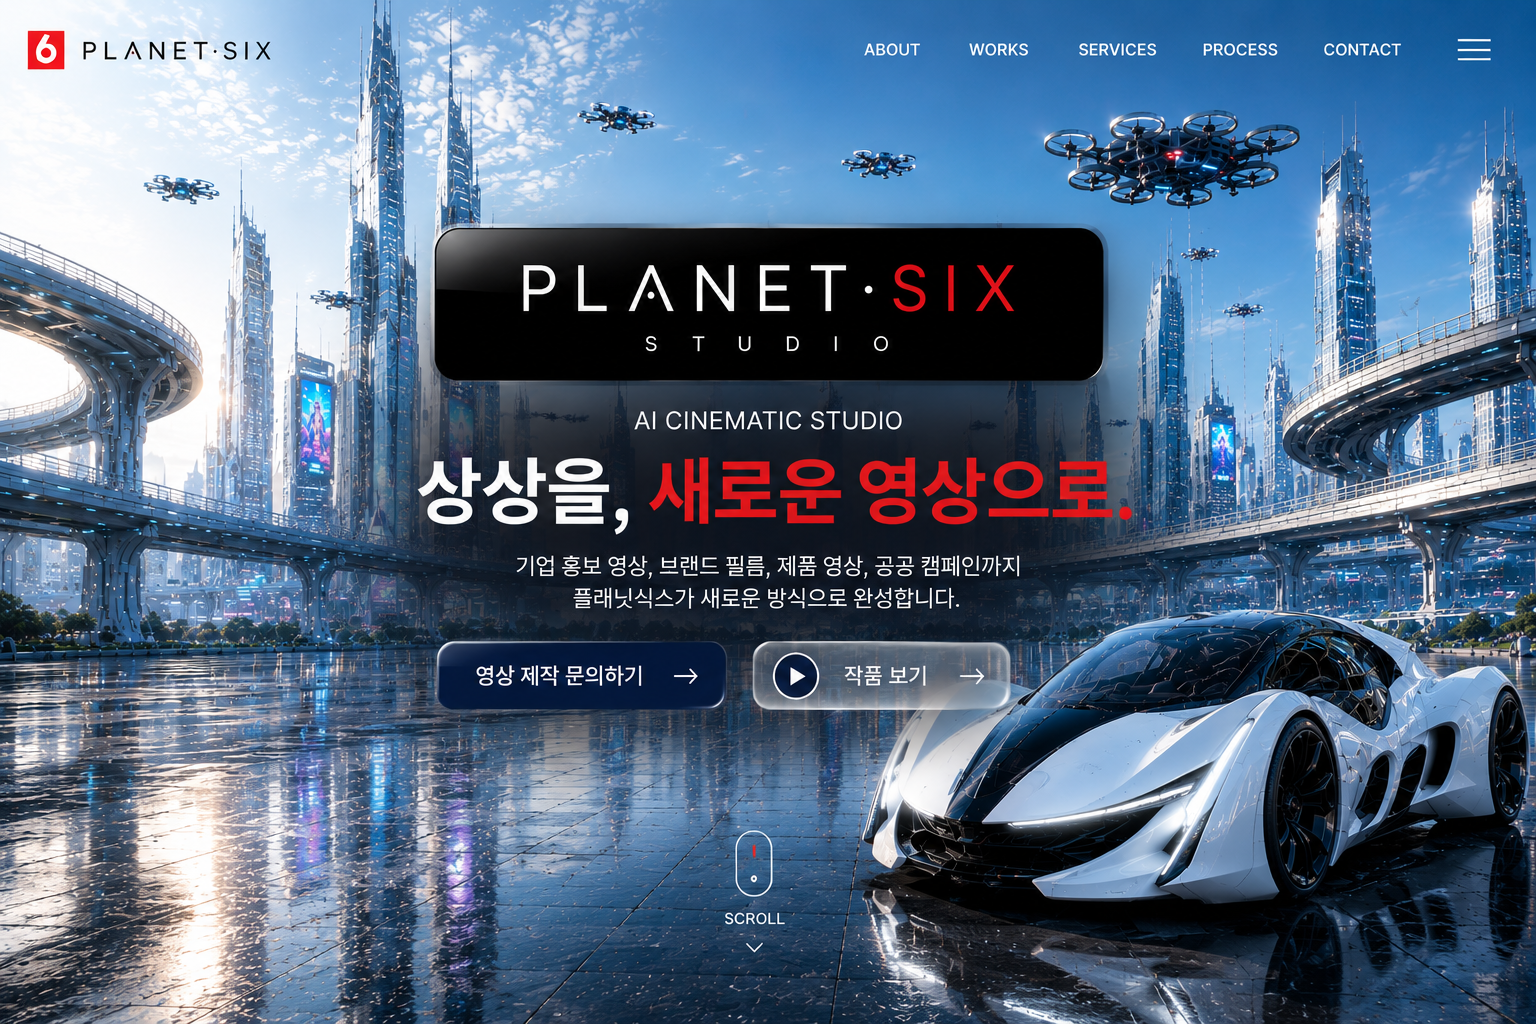
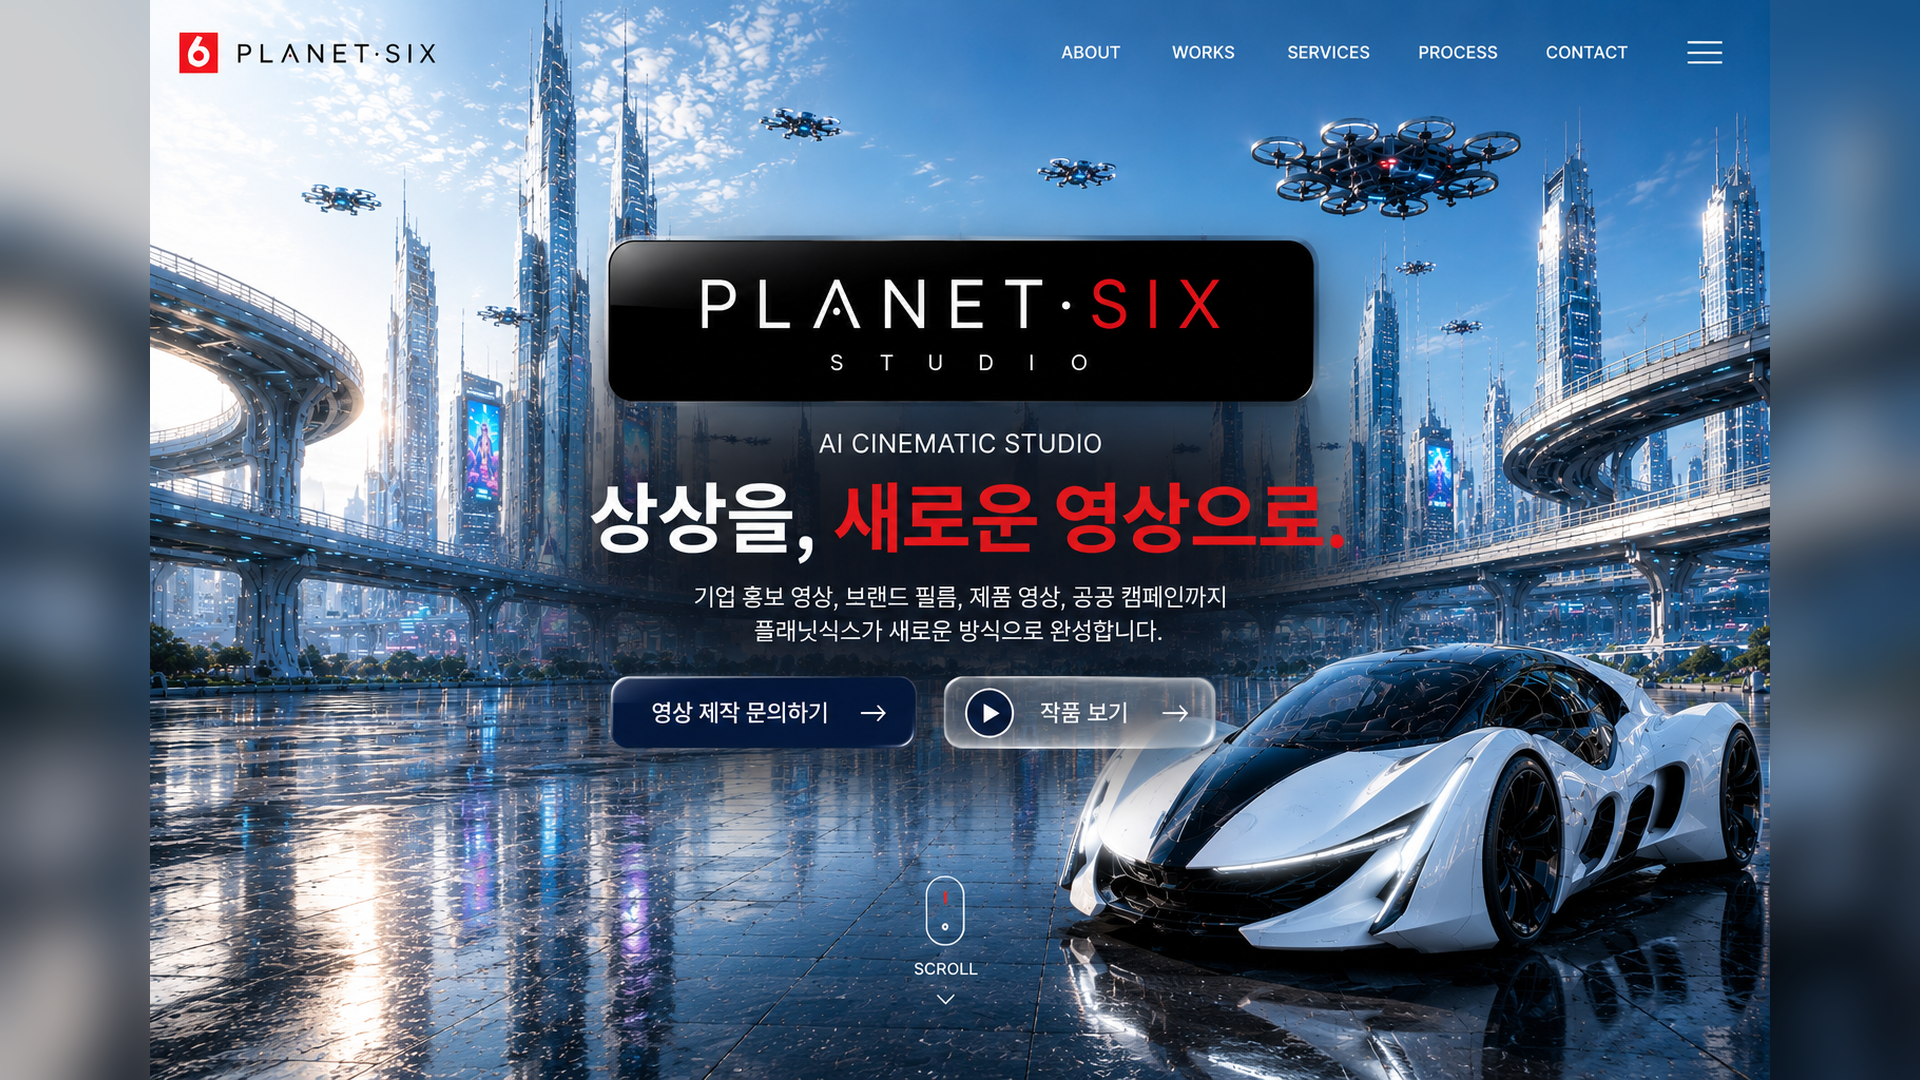
Add files via upload

diff --git a/styles.css b/styles.css
@@ -228,19 +228,24 @@ footer{padding:30px 5vw;display:flex;align-items:center;justify-content:space-be
   .hotspot.works{left:50%;top:62%;width:31%;height:8%}
 }
 
-
 /* =========================================
-   FINAL HERO SIZE ADJUSTMENT v2
-   Keeps full car visible while revealing more at the top.
+   PLANET SIX — 16:9 WIDE HERO FIX
+   Full approved artwork visible; no dark side bars.
    ========================================= */
 .final-approved .final-hero-image{
+  background-image:url("assets/hero-final-approved.png");
   background-size:cover;
-  background-position:center 18px;
+  background-position:center center;
   background-repeat:no-repeat;
 }
 
-@media(max-width:900px){
-  .final-approved .final-hero-image{
-    background-position:center top;
-  }
-}
+/* Hotspots realigned for the new 1920×1080 artwork */
+.hotspot.nav-about{left:53.8%;top:2.1%;width:5.9%;height:6%}
+.hotspot.nav-works{left:61.2%;top:2.1%;width:5.9%;height:6%}
+.hotspot.nav-services{left:68.6%;top:2.1%;width:6.8%;height:6%}
+.hotspot.nav-process{left:76.1%;top:2.1%;width:6.8%;height:6%}
+.hotspot.nav-contact{left:82.9%;top:2.1%;width:6.3%;height:6%}
+
+.hotspot.inquiry{left:31.7%;top:62.0%;width:16.3%;height:8.2%}
+.hotspot.works{left:49.2%;top:62.0%;width:15.2%;height:8.2%}
+.hotspot.scroll{left:46.9%;top:81.0%;width:6.1%;height:13%}
